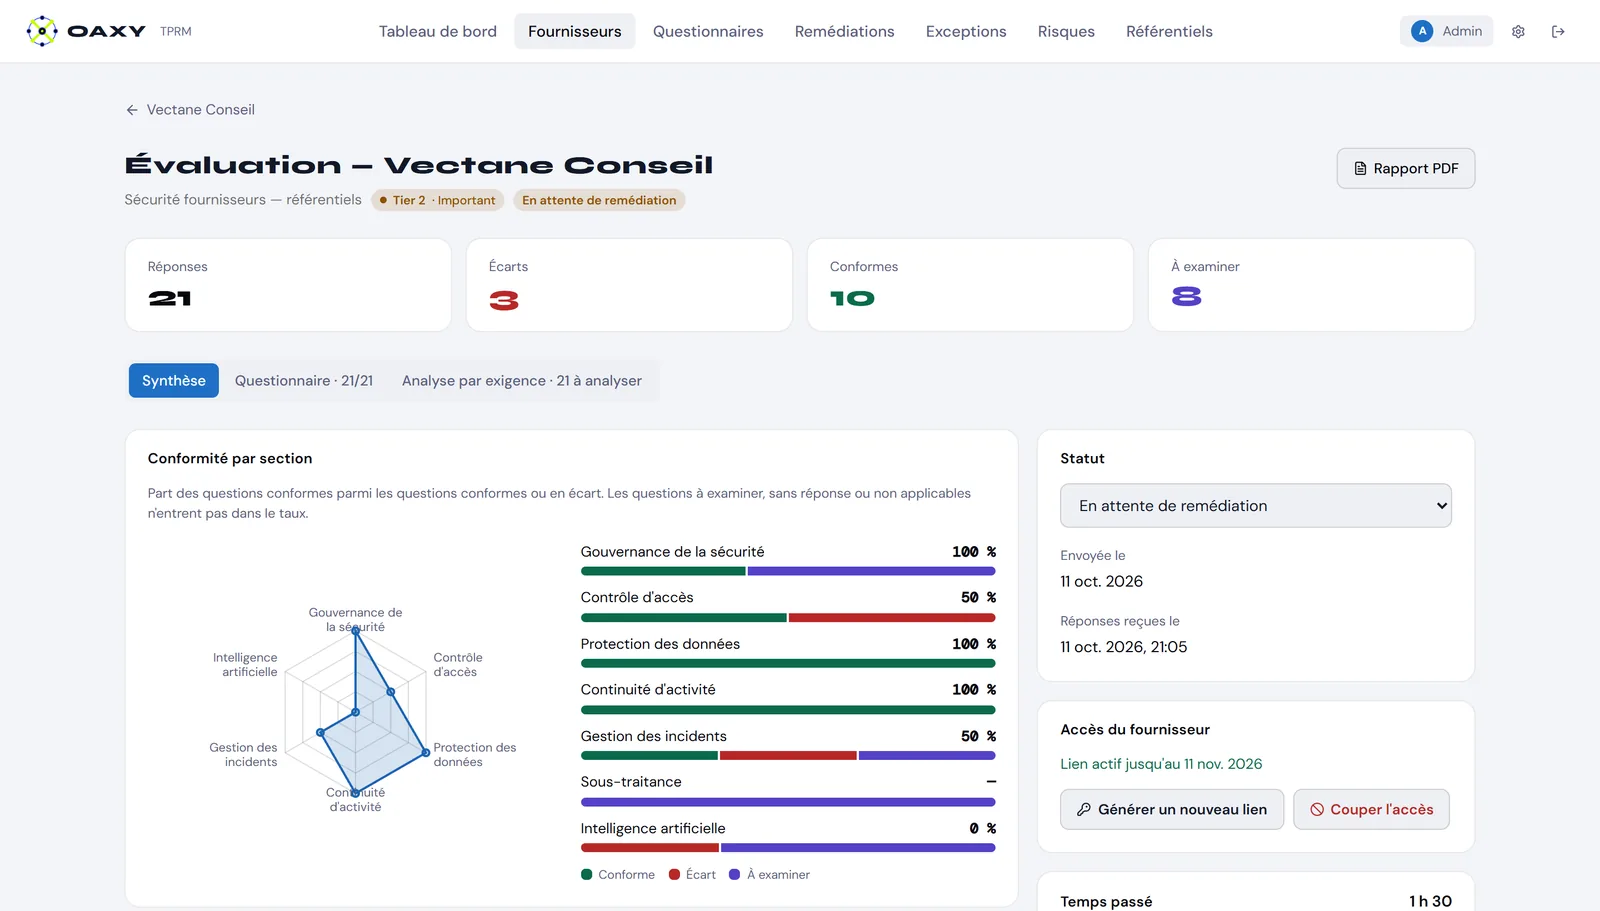
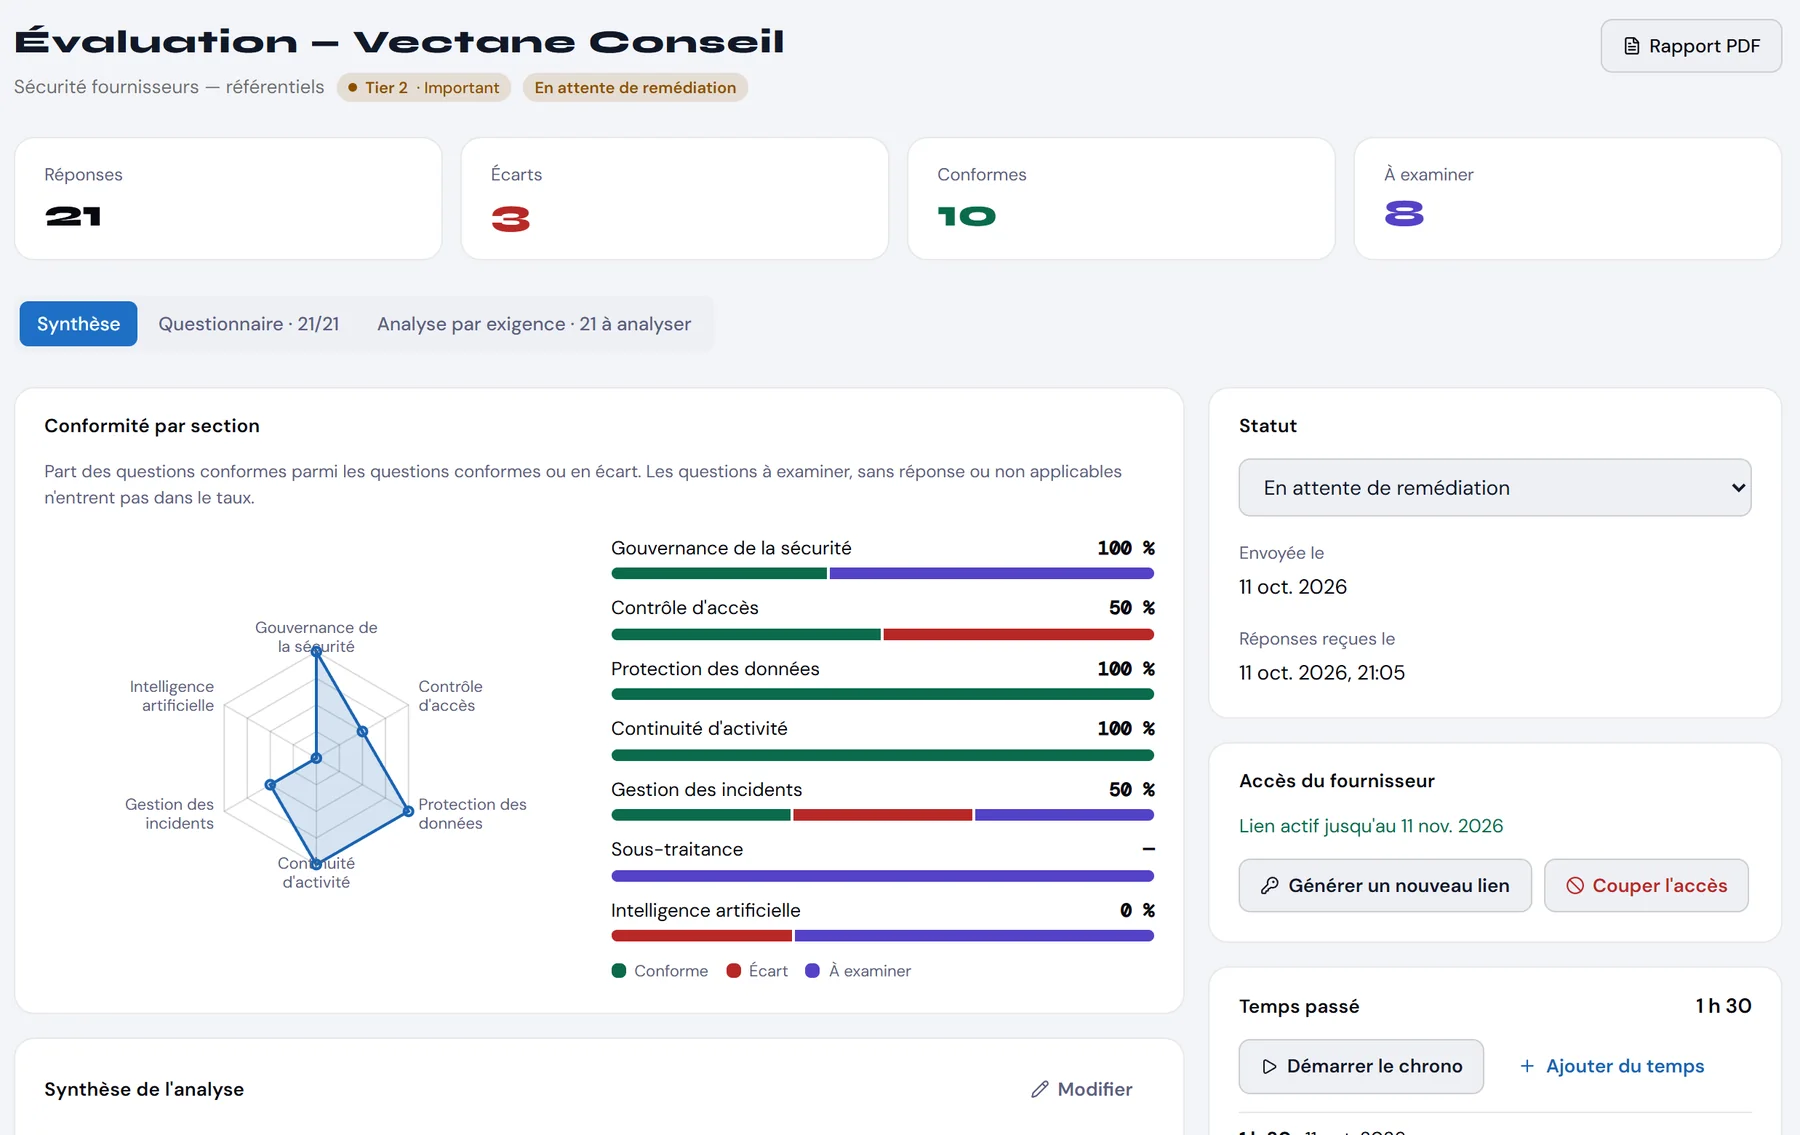
feat: app views blended into the page instead of framed screenshots
Screenshots cropped to the application content, without window frame,
border or caption box, on the same background as the page, fading out at
the edges; the hero view slightly bleeds to the right.

diff --git a/index.html b/index.html
@@ -107,13 +107,19 @@ p { margin: 0; }
 .regs { display: flex; flex-wrap: wrap; gap: 8px; }
 .regs span { font-family: var(--f-mono); font-size: 12px; letter-spacing: 0.04em; color: var(--text-secondary); background: var(--card); border: 1px solid var(--border-md); border-radius: 999px; padding: 4px 11px; }
 
-/* Capture de l'application dans une fenêtre */
-.shot { margin: 0; background: var(--card); border: 1px solid var(--border-md); border-radius: var(--radius-card); overflow: hidden; box-shadow: 0 24px 60px -28px rgba(17, 24, 39, 0.35), 0 2px 6px rgba(17, 24, 39, 0.06); }
-.shot-bar { display: flex; align-items: center; gap: 6px; padding: 10px 14px; background: var(--input); border-bottom: 1px solid var(--border); }
-.shot-bar i { width: 10px; height: 10px; border-radius: 999px; background: var(--border-md); }
-.shot-bar span { margin-left: 10px; font-family: var(--f-mono); font-size: 11px; color: var(--text-muted); white-space: nowrap; overflow: hidden; text-overflow: ellipsis; }
-.shot img { width: 100%; height: auto; }
-.shot figcaption { padding: 12px 16px; font-size: 13px; color: var(--text-secondary); border-top: 1px solid var(--border); }
+/* Vues de l'application fondues dans la page : même fond, pas de cadre, bords qui s'effacent */
+.blend { margin: 0; display: flex; flex-direction: column; gap: 10px; }
+.blend img { width: 100%; height: auto; }
+.blend figcaption { font-family: var(--f-mono); font-size: 11px; letter-spacing: 0.04em; color: var(--text-muted); }
+.blend--hero { width: calc(100% + clamp(0px, 7vw, 120px)); }
+.blend--hero img {
+  -webkit-mask-image: linear-gradient(to bottom, #000 68%, transparent 100%), linear-gradient(to right, #000 82%, transparent 100%);
+  -webkit-mask-composite: source-in;
+  mask-image: linear-gradient(to bottom, #000 68%, transparent 100%), linear-gradient(to right, #000 82%, transparent 100%);
+  mask-composite: intersect;
+}
+.blend--hero figcaption { margin-top: -6px; }
+.band--hero { overflow: hidden; }
 
 /* Cas réel */
 .statement { padding-block: clamp(56px, 8vw, 96px); display: flex; flex-direction: column; gap: 18px; }
@@ -210,6 +216,8 @@ p { margin: 0; }
 
 @media (max-width: 980px) {
   .hero, .split { grid-template-columns: minmax(0, 1fr); }
+  .blend--hero { width: 100%; }
+  .blend--hero img { -webkit-mask-image: linear-gradient(to bottom, #000 72%, transparent 100%); mask-image: linear-gradient(to bottom, #000 72%, transparent 100%); }
   .steps { grid-template-columns: repeat(2, minmax(0, 1fr)); }
   .fields { grid-template-columns: repeat(2, minmax(0, 1fr)); }
   .about { grid-template-columns: 180px minmax(0, 1fr); }
@@ -252,7 +260,7 @@ p { margin: 0; }
 </header>
 
 <main id="top">
-  <div class="band">
+  <div class="band band--hero">
     <section class="wrap hero" aria-labelledby="hero-title">
       <div class="hero-copy">
         <p class="eyebrow">Risque fournisseurs · ETI régulées</p>
@@ -265,11 +273,10 @@ p { margin: 0; }
         </div>
         <div class="regs" aria-label="Textes couverts"><span>DORA</span><span>NIS2</span><span>RGPD</span><span>AI Act</span><span>ISO 27001</span></div>
       </div>
-      <figure class="shot">
-        <div class="shot-bar" aria-hidden="true"><i></i><i></i><i></i><span>OAXY TPRM · Évaluation fournisseur</span></div>
-        <img src="assets/capture-evaluation.webp" width="1600" height="911"
+      <figure class="blend blend--hero">
+        <img src="assets/capture-evaluation.webp" width="1800" height="1135"
           alt="Évaluation d’un fournisseur dans OAXY TPRM : réponses, écarts, conformité par section, statut et accès du fournisseur. Données de démonstration fictives.">
-        <figcaption>Évaluation d’un fournisseur dans OAXY TPRM · données de démonstration fictives</figcaption>
+        <figcaption>Évaluation fournisseur dans OAXY TPRM · données fictives</figcaption>
       </figure>
     </section>
   </div>
@@ -338,11 +345,10 @@ p { margin: 0; }
         <div class="card field"><span>Échéance</span><p>Date de fin et fréquence de revue</p></div>
         <div class="card field"><span>Remédiation</span><p>L’engagement pris par le fournisseur</p></div>
       </div>
-      <figure class="shot">
-        <div class="shot-bar" aria-hidden="true"><i></i><i></i><i></i><span>OAXY TPRM · Exceptions</span></div>
-        <img src="assets/capture-exceptions.webp" width="1600" height="656"
+      <figure class="blend">
+        <img src="assets/capture-exceptions.webp" width="1800" height="716"
           alt="Liste des exceptions dans OAXY TPRM : exigence, fournisseur, statut, propriétaire du risque, échéance et prochaine revue. Données de démonstration fictives.">
-        <figcaption>Le suivi des exceptions dans OAXY TPRM · données de démonstration fictives</figcaption>
+        <figcaption>Suivi des exceptions dans OAXY TPRM · données fictives</figcaption>
       </figure>
     </section>
   </div>
